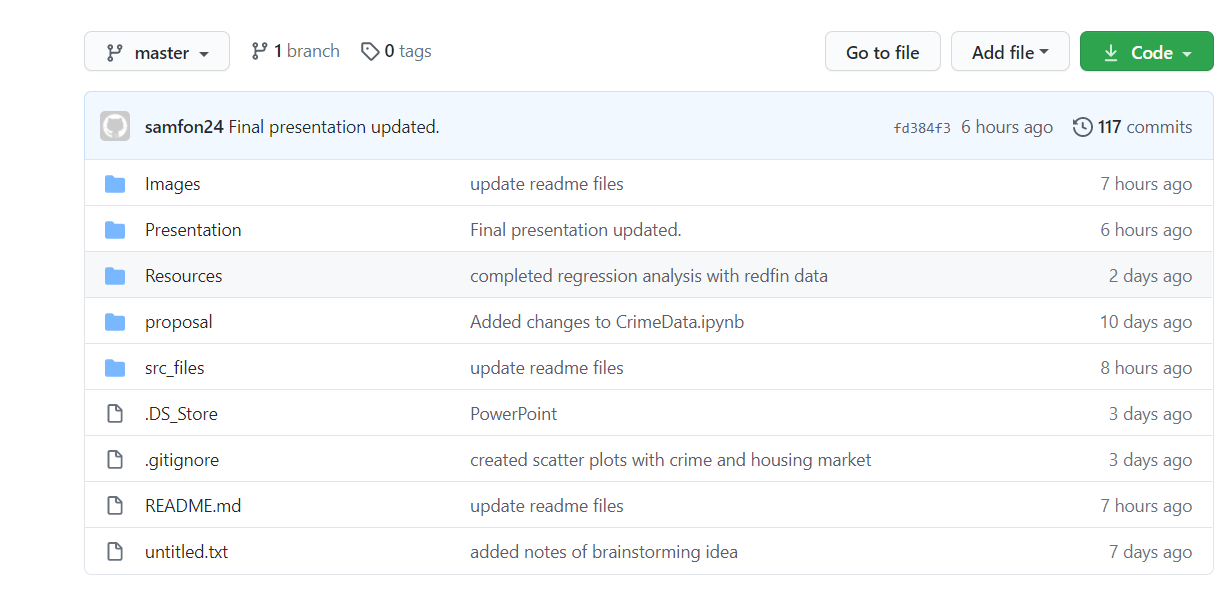
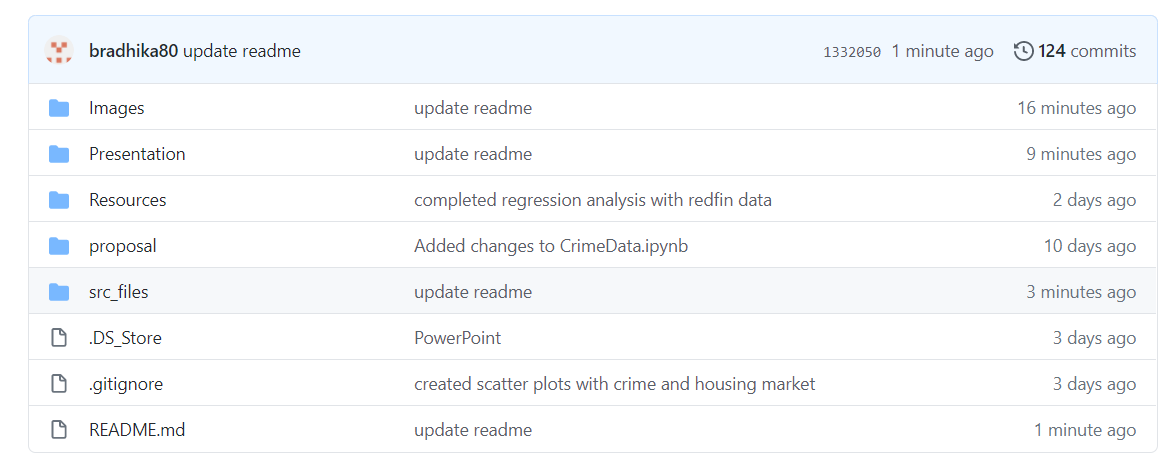
update readme

diff --git a/README.md b/README.md
@@ -140,6 +140,9 @@ While we see there is a relationship between the crime rate and the housing mark
      * IncomeCensus
          The module to retrieve income census data from Income census API
 
+## Images
+    The folder contains our analysis graphs and charts
+
 ## Resources
      The folder contains the datasets used for the project
 
@@ -147,4 +150,5 @@ While we see there is a relationship between the crime rate and the housing mark
      The folder contains our project proposal
 
 ## Presentation
+    The folder contains our project presentation
  
